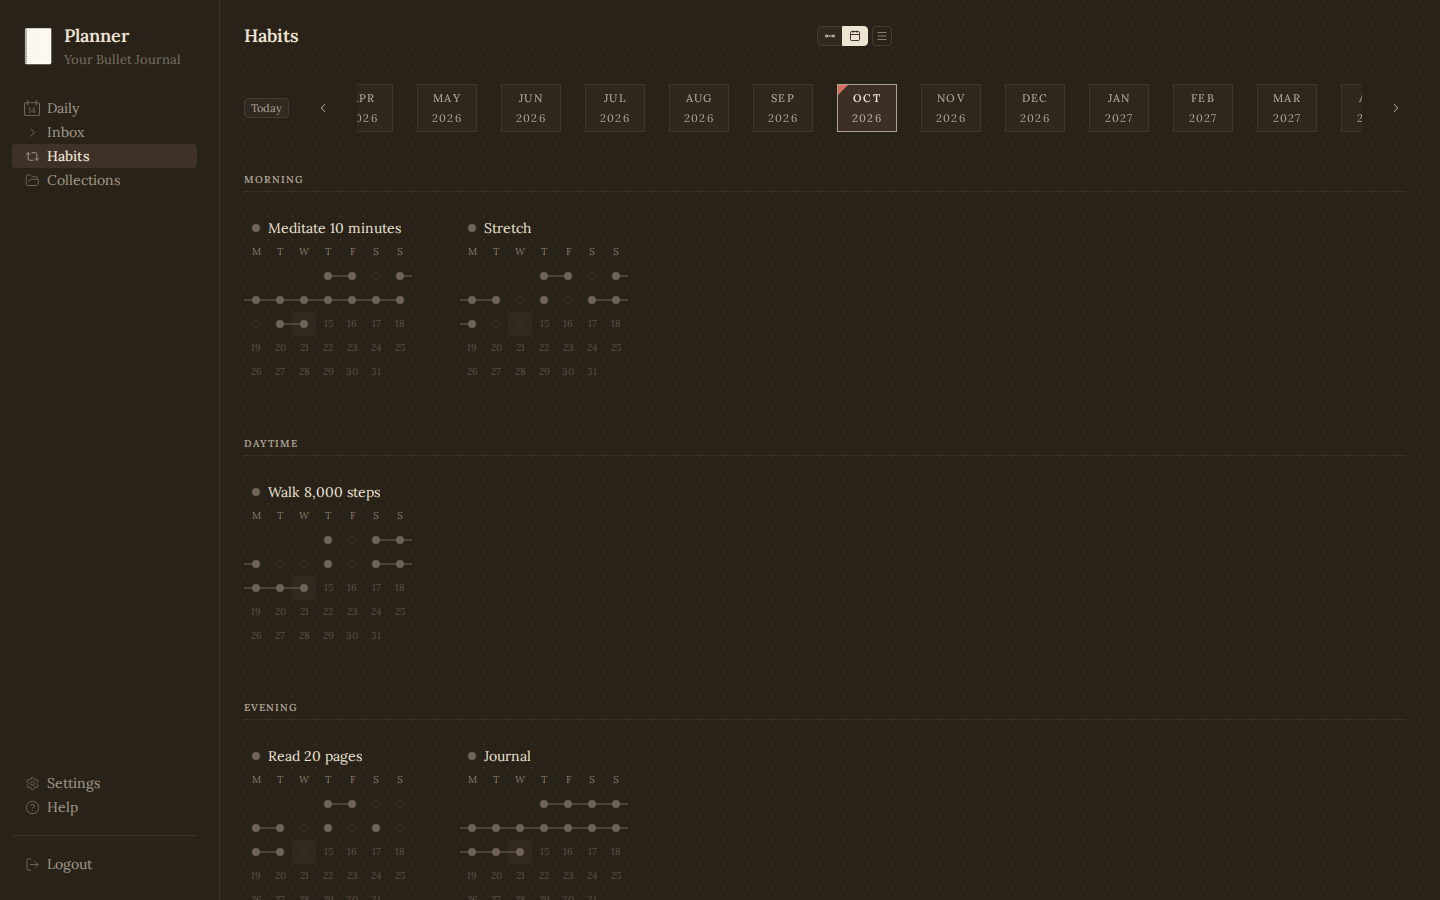
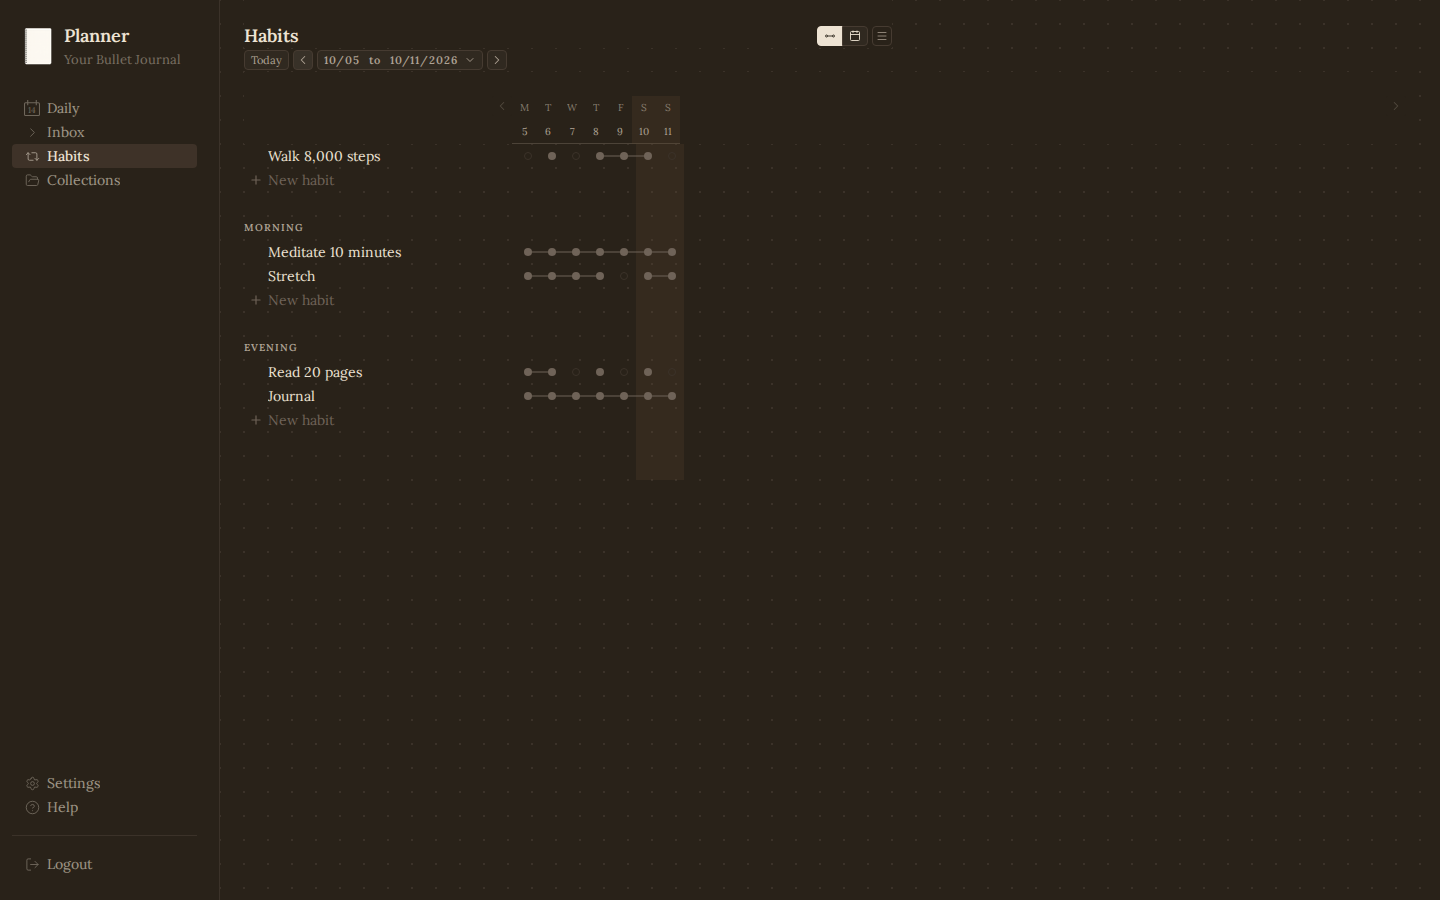
docs: use habits timeline view in README screenshots

diff --git a/scripts/readme-screenshots.ts b/scripts/readme-screenshots.ts
@@ -27,7 +27,8 @@ const OUT_DIR = path.resolve(import.meta.dirname, '../.github/assets');
 const SCREENS = [
   { name: 'daily-list', route: '/daily/list' },
   { name: 'daily-kanban', route: '/daily/cards' },
-  { name: 'habits', route: '/habits' },
+  // Today is mid-week, so step back one week to show a fully logged row of columns.
+  { name: 'habits', route: '/habits', previousWeek: true },
 ] as const;
 
 const VIEWPORTS = [
@@ -116,14 +117,13 @@ async function seed(api: Api): Promise<void> {
   }
 
   const morning = await api.post<{ id: string }>('/habit-groups', { name: 'Morning' });
-  const daytime = await api.post<{ id: string }>('/habit-groups', { name: 'Daytime' });
   const evening = await api.post<{ id: string }>('/habit-groups', { name: 'Evening' });
 
   // Pass rate per habit; a fixed pseudo-random sequence keeps the grid stable between runs.
   const habits = [
+    { name: 'Walk 8,000 steps', groupId: null, rate: 0.5 },
     { name: 'Meditate 10 minutes', groupId: morning.id, rate: 0.85 },
     { name: 'Stretch', groupId: morning.id, rate: 0.7 },
-    { name: 'Walk 8,000 steps', groupId: daytime.id, rate: 0.5 },
     { name: 'Read 20 pages', groupId: evening.id, rate: 0.6 },
     { name: 'Journal', groupId: evening.id, rate: 0.9 },
   ];
@@ -164,15 +164,16 @@ async function capture(
       // Habits and Daily must agree on "today" with the account's UTC time zone.
       timezoneId: 'UTC',
     });
-    await context.addInitScript(() => {
-      window.localStorage.setItem('planner.habits.view.v1', 'calendar');
-    });
     const page = await context.newPage();
 
     for (const screen of SCREENS) {
       await page.goto(screen.route);
       await page.waitForLoadState('networkidle');
       await page.evaluate(() => document.fonts.ready);
+      if ('previousWeek' in screen) {
+        await page.getByRole('button', { name: 'Previous week', exact: true }).click();
+        await page.waitForLoadState('networkidle');
+      }
       await page.waitForTimeout(500);
       await page.screenshot({
         path: path.join(OUT_DIR, `${screen.name}-${viewport.name}-${theme}.png`),
